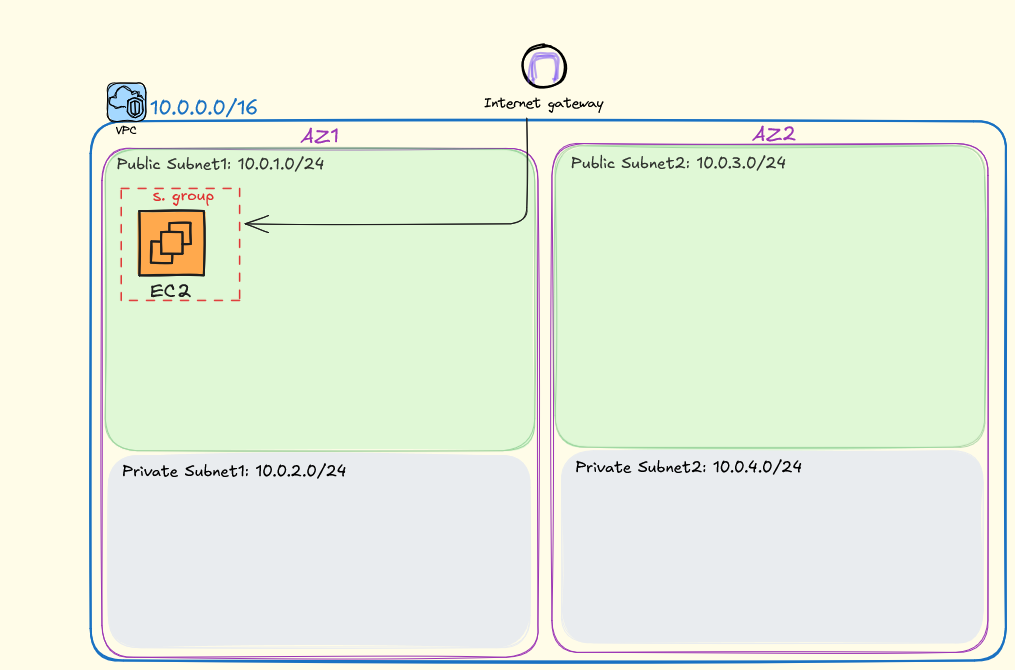
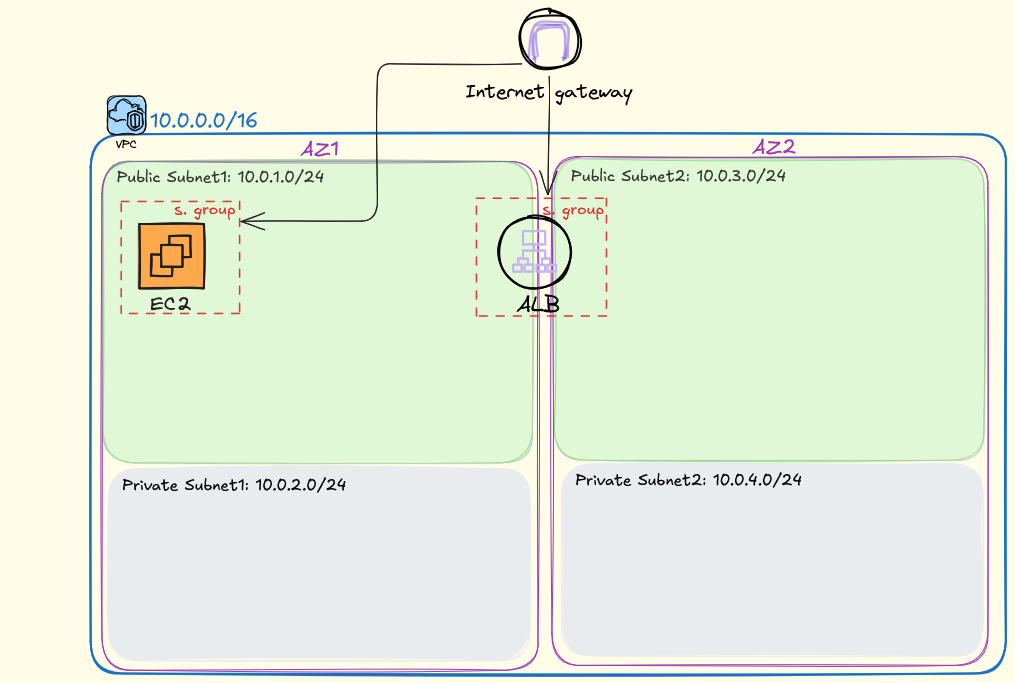
Add Launch Template to ALB stack, update README

diff --git a/README.MD b/README.MD
@@ -11,17 +11,18 @@ A hands-on project that provisions a WordPress site on AWS using CloudFormation 
 - **EC2 instance** (t3.micro, Amazon Linux 2023) in the public subnet
 - **LAMP stack** (Apache, PHP, MariaDB, WordPress) auto-installed via UserData
 - **Security groups** for the web server, load balancer, ASG, and database
-- **Application Load Balancer** (internet-facing) across both public subnets
-- **Target Group** with health checks against `/health.html`
-- **HTTP Listener** on port 80 forwarding traffic to the Target Group
+- **Application Load Balancer** (internet-facing) across both public subnets, along with:
+  - *Target Group* with health checks against `/health.html`
+  - *HTTP Listener* on port 80
+  - *Launch Template* — reusable EC2 blueprint with full WordPress UserData bootstrap
 
 The infrastructure is split across three templates:
 
 | Template | Responsibility |
 |----------|---------------|
 | `templates/network-security.yaml` | VPC, subnets, Internet Gateway, route tables, all security groups |
-| `templates/wordpress-server.yaml` | EC2 instance with automated WordPress installation |
-| `templates/autoscaling-alb.yaml` | Application Load Balancer, Target Group, and Listener |
+| `templates/wordpress-server.yaml` | EC2 instance with automated LAMP stack and WordPress installation |
+| `templates/autoscaling-alb.yaml` | Application Load Balancer, Target Group, Listener and Launch Template|
 
 Each template imports values exported by `network-security.yaml`, so the network stack must always be deployed first.
 
@@ -161,7 +162,37 @@ aws elbv2 describe-target-health \
   --target-group-arn <target-group-arn>
 ```
 
+## Tearing Down the Stacks
+
+Delete stacks in reverse order — dependents before dependencies. CloudFormation won't let you delete a stack whose exports are still being referenced by another.
+
+```bash
+# 1. Delete the ALB stack first
+aws cloudformation delete-stack --stack-name alb-stack
+
+# 2. Delete the WordPress web server stack
+aws cloudformation delete-stack --stack-name wordpress-stack
+
+# 3. Delete the network stack last
+aws cloudformation delete-stack --stack-name network-stack
+```
+
 ---
+
+### 8. Update the ALB Stack with the Launch Template
+
+The Launch Template defines the blueprint for every EC2 instance the Auto Scaling Group will launch — AMI, instance type, security group, and the full WordPress UserData bootstrap script.
+
+It lives inside `autoscaling-alb.yaml` alongside the ALB. Update the existing stack to add it:
+
+```bash
+aws cloudformation deploy \
+  --stack-name alb-stack \
+  --template-file templates/autoscaling-alb.yaml \
+```
+
+---
+
 
 ## Project Structure
 